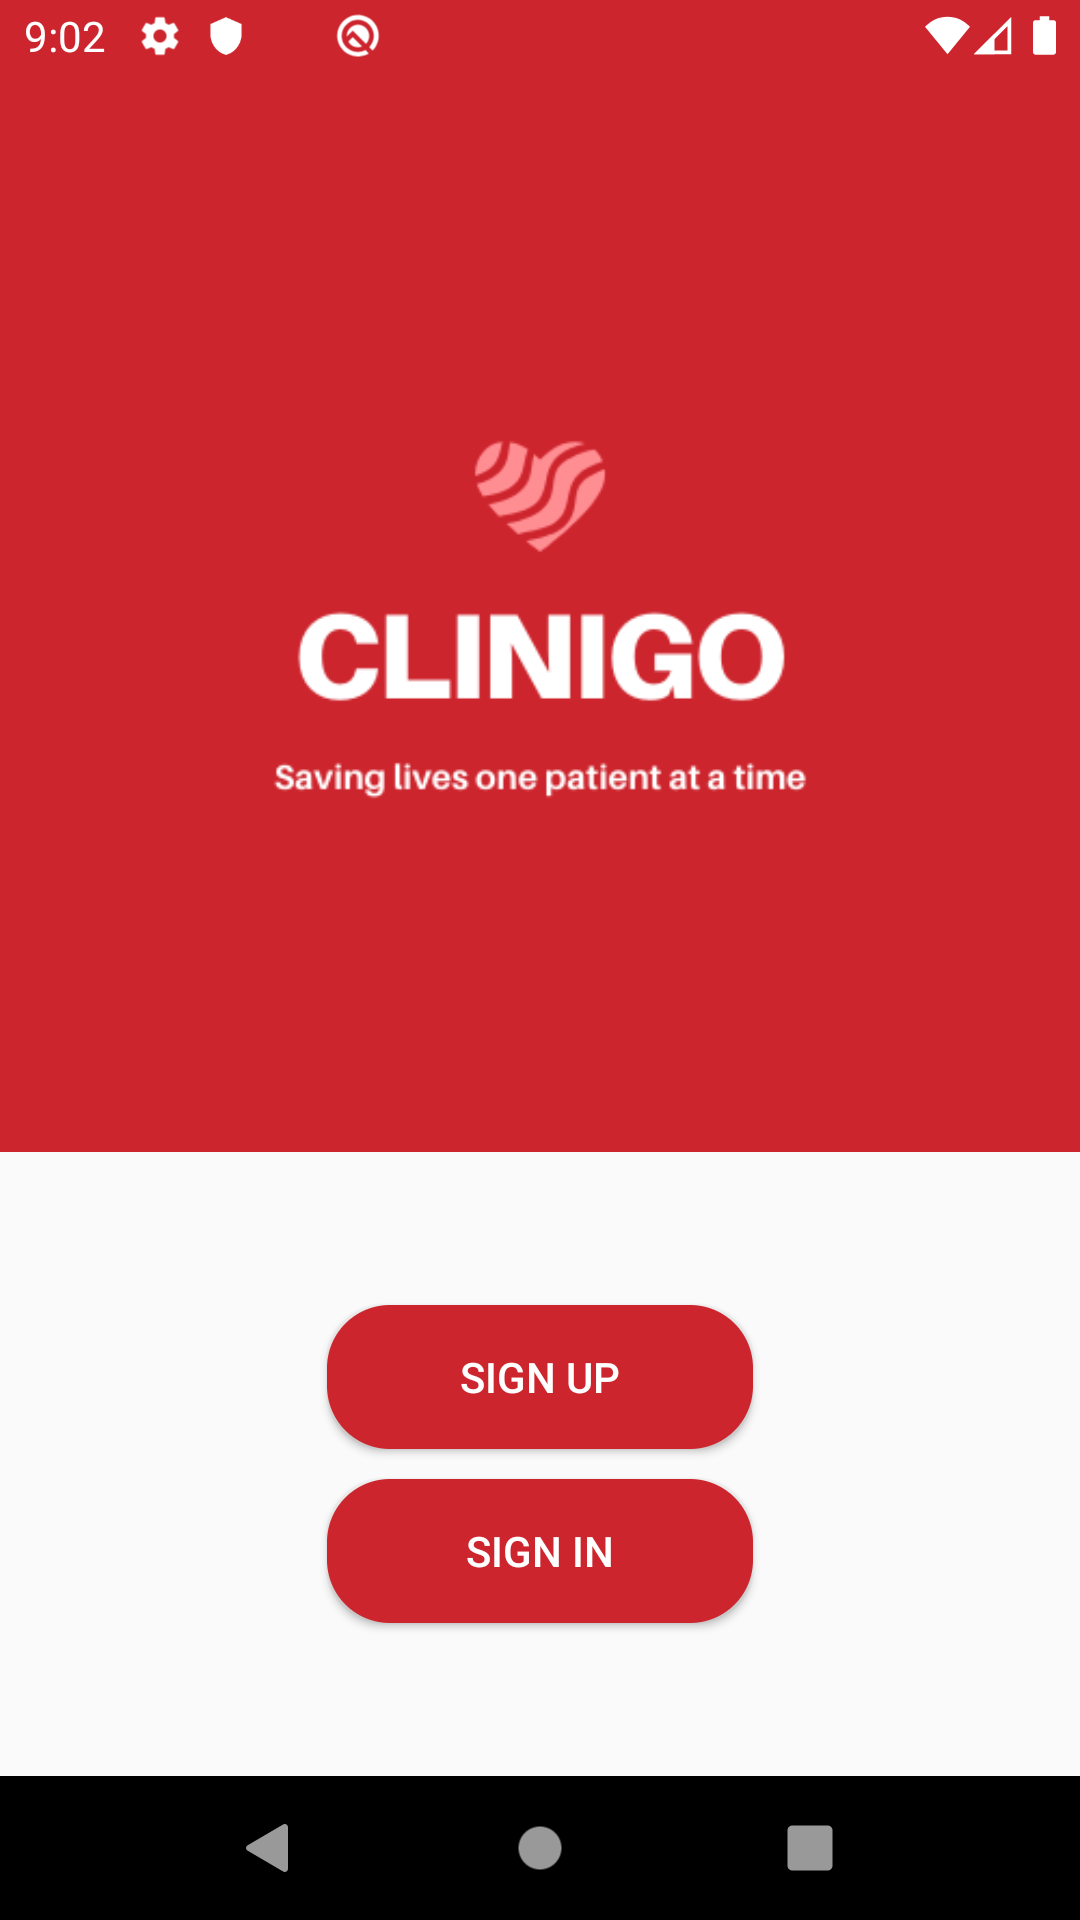
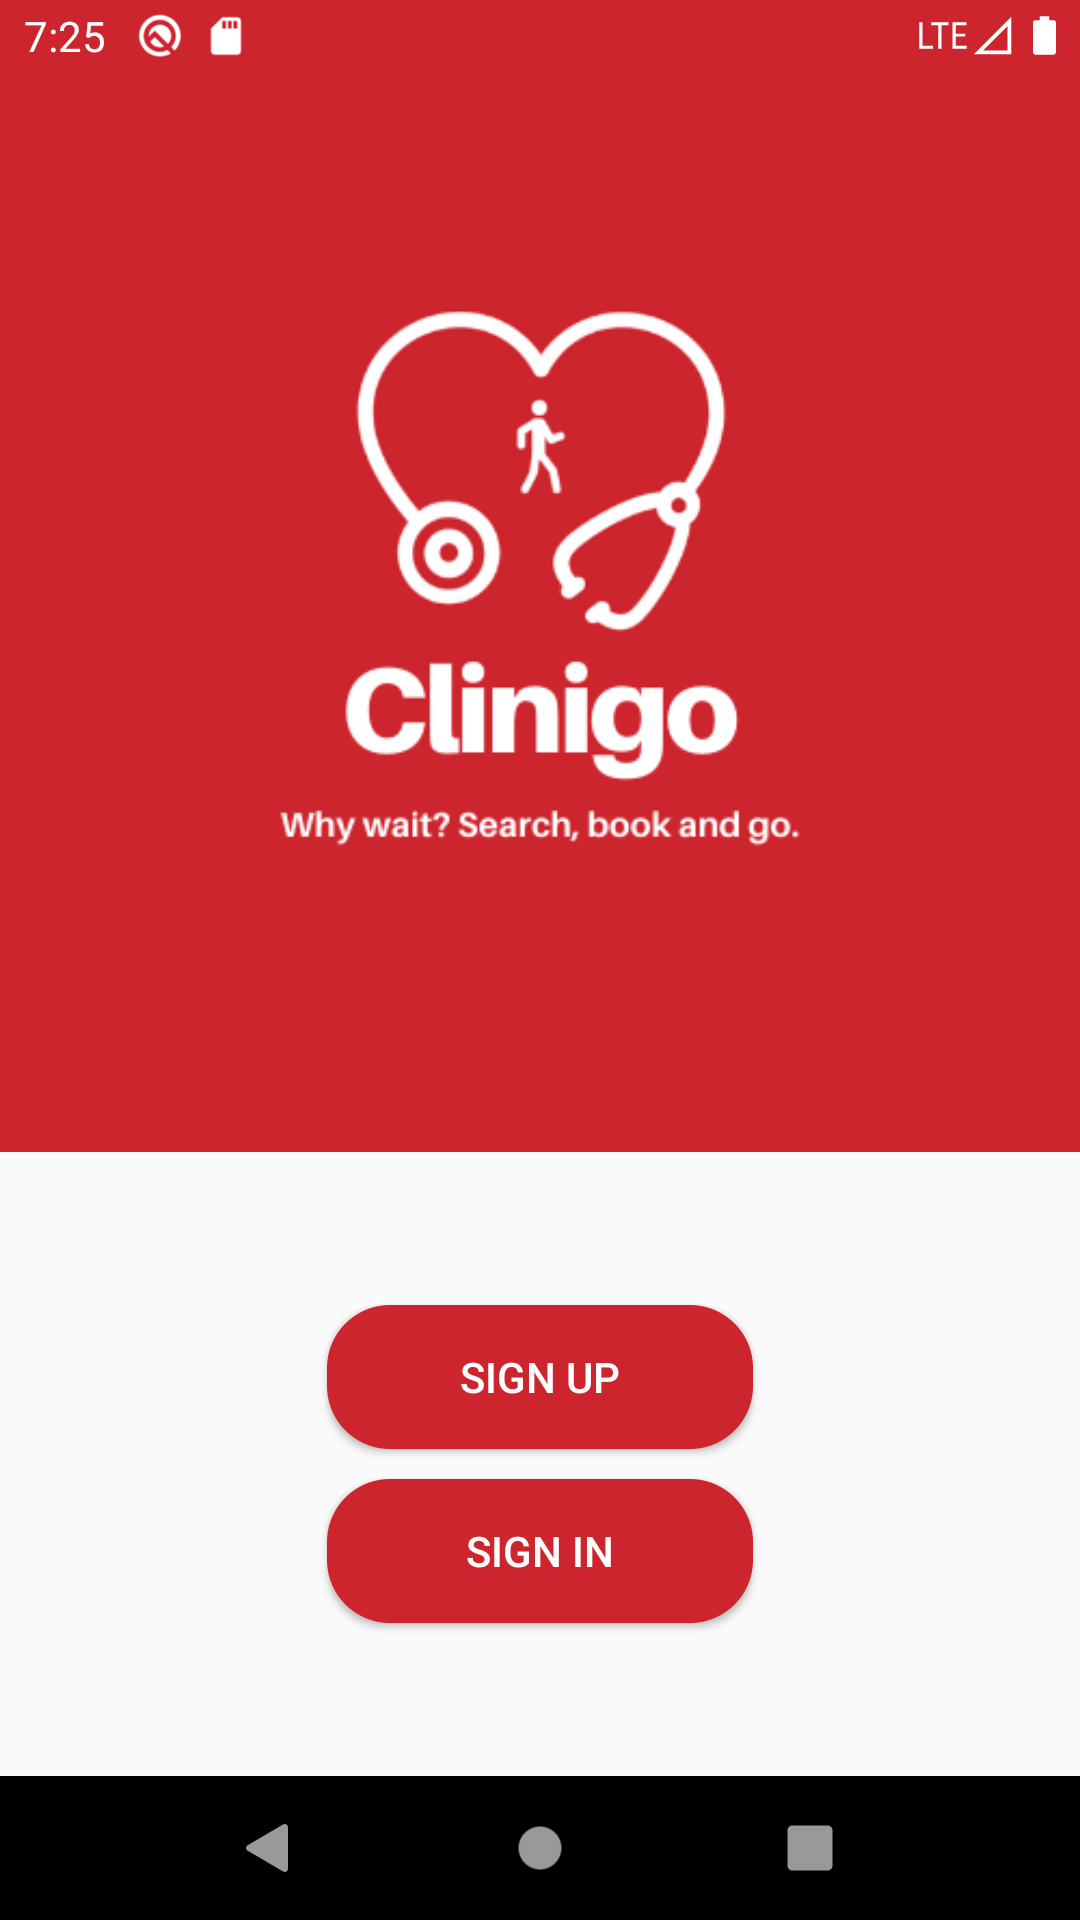
Final updates for deliverable 2

diff --git a/README.md b/README.md
@@ -1,16 +1,14 @@
-# Project-Camel
+# Clinigo
 
 Our team developed an app to address the need for people to know wait times at nearby walk-in clinics without having to leave their home. It also allows users to know the services offered by nearby walk-in clinics and allow them to check-in/book appointments at the clinic of their choice. 
 
 We present to you: `Clinigo`
 
 <p align="center">
-    <img src="assets/clinigo_logo.PNG" height="400" /> 
+    <img src="assets/clinigo_logo_slogan.PNG" height="400" /> 
 </p>
 
 ## Team Members
-
-<center>
 
 | Name | Student Number |
 | --- | --- |
@@ -20,11 +18,9 @@ We present to you: `Clinigo`
 | Lev Guzman Aparicio   |  300038033 |
 | Siraj Ghassel   |  8168653 |
 
-</center>
-
 ## Table Of Contents
 
-- [Project-Camel](#project-camel)
+- [Clinigo](#clinigo)
   - [Team Members](#team-members)
   - [Table Of Contents](#table-of-contents)
   - [Deliverable 1](#deliverable-1)
@@ -83,9 +79,9 @@ We took multiple screenshots to demonstrate the different features and their fun
 
 ## Deliverable 2
 
-The second deliverable concentrates on the admin features. The admin can create and edit services as well as delete accounts (walk-in clinic employees and patients). 
+The second deliverable concentrates on the admin features. The admin can create and edit services as well as delete accounts (walk-in clinic employees and patients).
 
-`CircleCI` was utilized to run unit tests and builds can be found [here](https://circleci.com/gh/professor-forward)
+Circle CI was used to run unit tests. The builds can be found [here](https://circleci.com/gh/professor-forward)
 
 ### Admin Account
 
